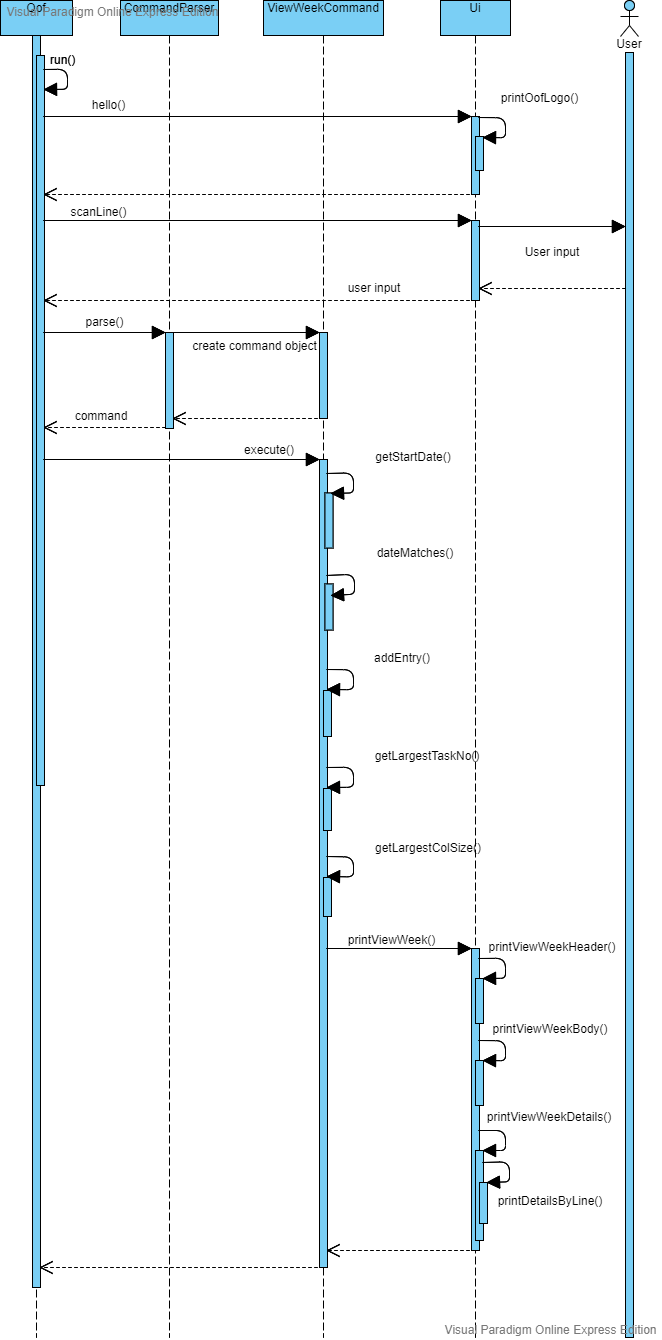
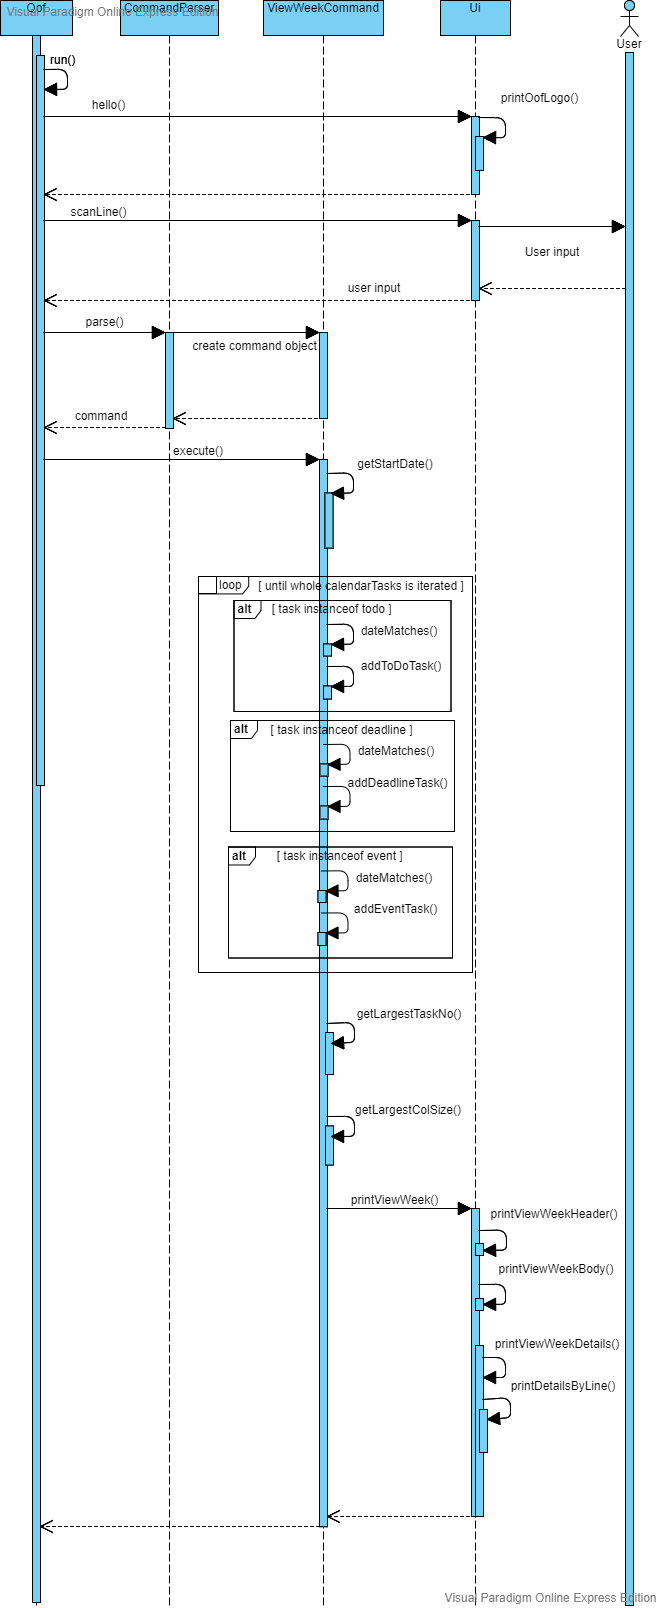
updated UG DG, refactored Recurring and ViewWeek Commands

diff --git a/src/main/java/oof/command/RecurringCommand.java b/src/main/java/oof/command/RecurringCommand.java
@@ -29,7 +29,7 @@ public class RecurringCommand extends Command {
     private static final int WEEKLY = 2;
     private static final int MONTHLY = 3;
     private static final int YEARLY = 4;
-    private static final int WEEK = 7;
+    private static final int DAYS_IN_WEEK = 7;
 
     /**
      * Constructor for RecurringCommand.
@@ -102,31 +102,67 @@ public class RecurringCommand extends Command {
     private void recurInstances(Ui ui, TaskList taskList, Task task, int count, int frequency) throws OofException {
         if (task instanceof Todo) {
             for (int i = 1; i <= count; i++) {
-                String date = ((Todo) task).getOn();
-                date = dateTimeIncrement(date, frequency, i);
-                Todo todo = new Todo(task.getDescription(), date);
-                todo.setFrequency(frequency);
-                taskList.addTask(todo);
+                addToDoTask(taskList, task, i, frequency);
             }
         } else if (task instanceof Deadline) {
             for (int i = 1; i <= count; i++) {
-                String date = ((Deadline) task).getBy();
-                date = dateTimeIncrement(date, frequency, i);
-                Deadline deadline = new Deadline(task.getDescription(), date);
-                deadline.setFrequency(frequency);
-                taskList.addTask(deadline);
+                addDeadlineTask(taskList, task, i, frequency);
             }
         } else if (task instanceof Event) {
             for (int i = 1; i <= count; i++) {
-                String startTiming = ((Event) task).getStartTime();
-                startTiming = dateTimeIncrement(startTiming, frequency, i);
-                String endTiming = ((Event) task).getEndTime();
-                endTiming = dateTimeIncrement(endTiming, frequency, i);
-                Event event = new Event(task.getDescription(), startTiming, endTiming);
-                event.setFrequency(frequency);
-                taskList.addTask(event);
+                addEventTask(taskList, task, i, frequency);
             }
         }
+    }
+
+    /**
+     * Adds recurring todo task to the current list of task.
+     * @param taskList Current list of tasks stored in program.
+     * @param task Task to be set as a recurring instance.
+     * @param index Represents the nth time to which the recurring instance has been generated.
+     * @param frequency Represents the frequency of recurrence.
+     * @throws OofException dateTimeIncrement method throws OofException.
+     */
+    private void addToDoTask(TaskList taskList, Task task, int index, int frequency) throws OofException {
+        String date = ((Todo) task).getOn();
+        date = dateTimeIncrement(date, frequency, index);
+        Todo todo = new Todo(task.getDescription(), date);
+        todo.setFrequency(frequency);
+        taskList.addTask(todo);
+    }
+
+    /**
+     * Adds recurring deadline task to the current list of task.
+     * @param taskList Current list of tasks stored in program.
+     * @param task Task to be set as a recurring instance.
+     * @param index Represents the nth time to which the recurring instance has been generated.
+     * @param frequency Represents the frequency of recurrence.
+     * @throws OofException dateTimeIncrement method throws OofException.
+     */
+    private void addDeadlineTask(TaskList taskList, Task task, int index, int frequency) throws OofException {
+        String date = ((Deadline) task).getBy();
+        date = dateTimeIncrement(date, frequency, index);
+        Deadline deadline = new Deadline(task.getDescription(), date);
+        deadline.setFrequency(frequency);
+        taskList.addTask(deadline);
+    }
+
+    /**
+     * Adds recurring event task to the current list of task.
+     * @param taskList Current list of tasks stored in program.
+     * @param task Task to be set as a recurring instance.
+     * @param index Represents the nth time to which the recurring instance has been generated.
+     * @param frequency Represents the frequency of recurrence.
+     * @throws OofException dateTimeIncrement method throws OofException.
+     */
+    private void addEventTask(TaskList taskList, Task task, int index, int frequency) throws OofException {
+        String startTiming = ((Event) task).getStartTime();
+        startTiming = dateTimeIncrement(startTiming, frequency, index);
+        String endTiming = ((Event) task).getEndTime();
+        endTiming = dateTimeIncrement(endTiming, frequency, index);
+        Event event = new Event(task.getDescription(), startTiming, endTiming);
+        event.setFrequency(frequency);
+        taskList.addTask(event);
     }
 
     /**
@@ -150,7 +186,7 @@ public class RecurringCommand extends Command {
             if (frequency == DAILY) {
                 calendar.add(Calendar.DATE, DAILY * increment);
             } else if (frequency == WEEKLY) {
-                calendar.add(Calendar.DATE, WEEK * increment);
+                calendar.add(Calendar.DATE, DAYS_IN_WEEK * increment);
             } else if (frequency == MONTHLY) {
                 calendar.add(Calendar.MONTH, COUNT_MIN * increment);
             } else if (frequency == YEARLY) {

diff --git a/src/main/java/oof/command/ViewWeekCommand.java b/src/main/java/oof/command/ViewWeekCommand.java
@@ -85,37 +85,11 @@ public class ViewWeekCommand extends Command {
         calendar.setTime(date);
         for (Task task : tasks.getTasks()) {
             if (task instanceof Todo) {
-                Todo todo = (Todo) task;
-                String[] dateSplit = todo.getOn().split("-");
-                if (dateMatches(dateSplit)) {
-                    String description = todo.getDescription();
-                    String time = "";
-                    int day = ((Integer.parseInt(dateSplit[INDEX_DAY]) - calendar.get(Calendar.DATE)) + lastDate)
-                            % lastDate;
-                    addEntry(time, description, day);
-                }
+                addToDoTask(task, calendar);
             } else if (task instanceof Deadline) {
-                Deadline deadline = (Deadline) task;
-                String[] dateTimeSplit = deadline.getBy().split(" ");
-                String[] dateSplit = dateTimeSplit[INDEX_DATE].split("-");
-                if (dateMatches(dateSplit)) {
-                    String description = deadline.getDescription();
-                    String time = dateTimeSplit[INDEX_TIME];
-                    int day = ((Integer.parseInt(dateSplit[INDEX_DAY]) - calendar.get(Calendar.DATE)) + lastDate)
-                            % lastDate;
-                    addEntry(time, description, day);
-                }
+                addDeadlineTask(task, calendar);
             } else if (task instanceof Event) {
-                Event event = (Event) task;
-                String[] dateTimeSplit = event.getStartTime().split(" ");
-                String[] dateSplit = dateTimeSplit[INDEX_DATE].split("-");
-                if (dateMatches(dateSplit)) {
-                    String description = event.getDescription();
-                    String time = dateTimeSplit[INDEX_TIME];
-                    int day = ((Integer.parseInt(dateSplit[INDEX_DAY]) - calendar.get(Calendar.DATE)) + lastDate)
-                            % lastDate;
-                    addEntry(time, description, day);
-                }
+                addEventTask(task, calendar);
             }
         }
         for (ArrayList<String[]> day : calendarTasks) {
@@ -124,6 +98,59 @@ public class ViewWeekCommand extends Command {
         int largestTaskSize = getLargestTaskNo(calendarTasks);
         int largestColSize = getLargestColSize(calendarTasks);
         ui.printViewWeek(calendarTasks, date, largestTaskSize, largestColSize);
+    }
+
+    /**
+     * Adds todo task to the list of task for the week if the task falls into the week of interest.
+     * @param task Task to be added to the list of task.
+     * @param calendar Instance of calendar index generation.
+     */
+    private void addToDoTask(Task task, Calendar calendar) {
+        Todo todo = (Todo) task;
+        String[] dateSplit = todo.getOn().split("-");
+        if (dateMatches(dateSplit)) {
+            String description = todo.getDescription();
+            String time = "";
+            int day = ((Integer.parseInt(dateSplit[INDEX_DAY]) - calendar.get(Calendar.DATE)) + lastDate)
+                    % lastDate;
+            addEntry(time, description, day);
+        }
+    }
+
+    /**
+     * Adds deadline task to the list of task for the week if the task falls into the week of interest.
+     * @param task Task to be added to the list of task.
+     * @param calendar Instance of calendar index generation.
+     */
+    private void addDeadlineTask(Task task, Calendar calendar) {
+        Deadline deadline = (Deadline) task;
+        String[] dateTimeSplit = deadline.getBy().split(" ");
+        String[] dateSplit = dateTimeSplit[INDEX_DATE].split("-");
+        if (dateMatches(dateSplit)) {
+            String description = deadline.getDescription();
+            String time = dateTimeSplit[INDEX_TIME];
+            int day = ((Integer.parseInt(dateSplit[INDEX_DAY]) - calendar.get(Calendar.DATE)) + lastDate)
+                    % lastDate;
+            addEntry(time, description, day);
+        }
+    }
+
+    /**
+     * Adds event task to the list of task for the week if the task falls into the week of interest.
+     * @param task Task to be added to the list of task.
+     * @param calendar Instance of calendar index generation.
+     */
+    private void addEventTask(Task task, Calendar calendar) {
+        Event event = (Event) task;
+        String[] dateTimeSplit = event.getStartTime().split(" ");
+        String[] dateSplit = dateTimeSplit[INDEX_DATE].split("-");
+        if (dateMatches(dateSplit)) {
+            String description = event.getDescription();
+            String time = dateTimeSplit[INDEX_TIME];
+            int day = ((Integer.parseInt(dateSplit[INDEX_DAY]) - calendar.get(Calendar.DATE)) + lastDate)
+                    % lastDate;
+            addEntry(time, description, day);
+        }
     }
 
     /**
